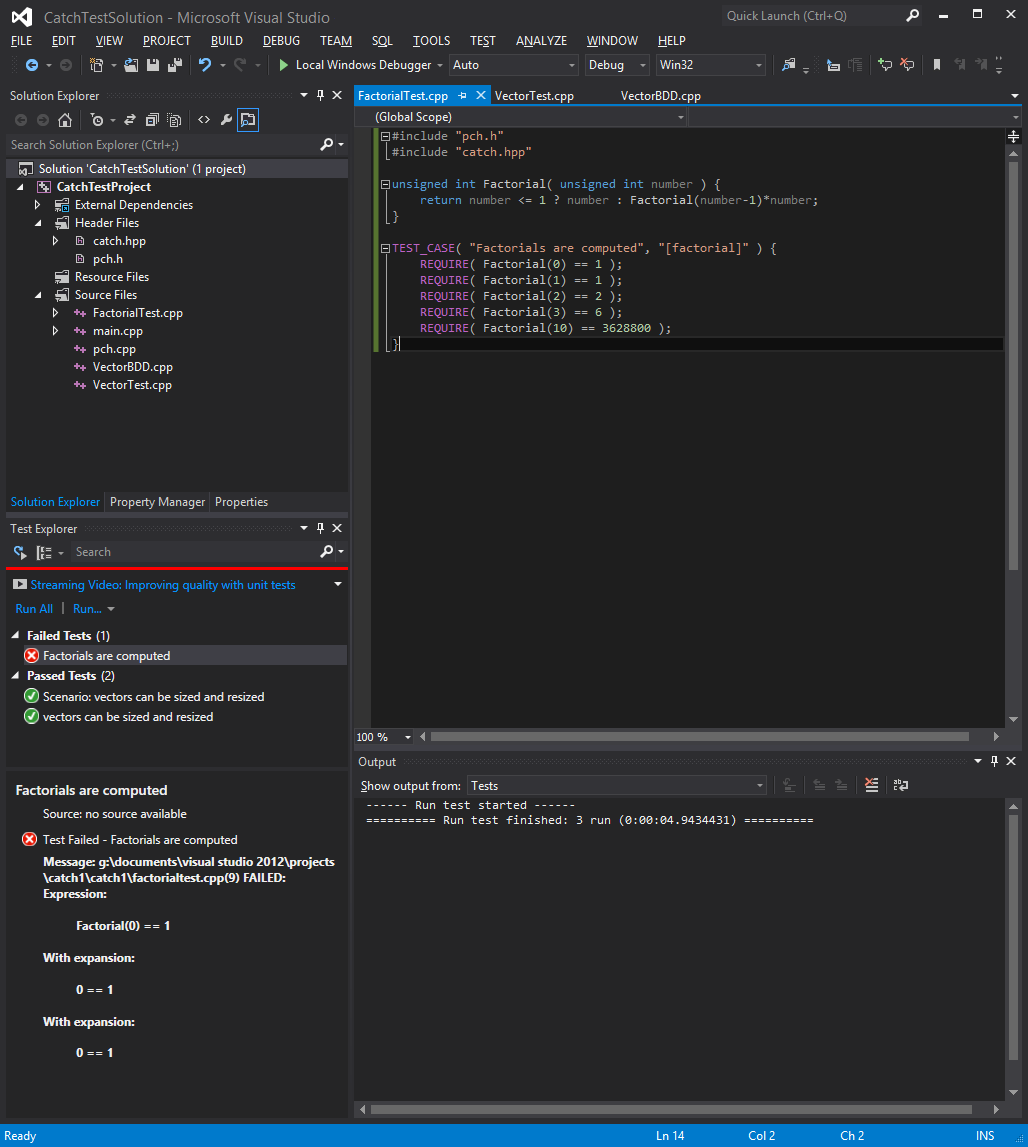
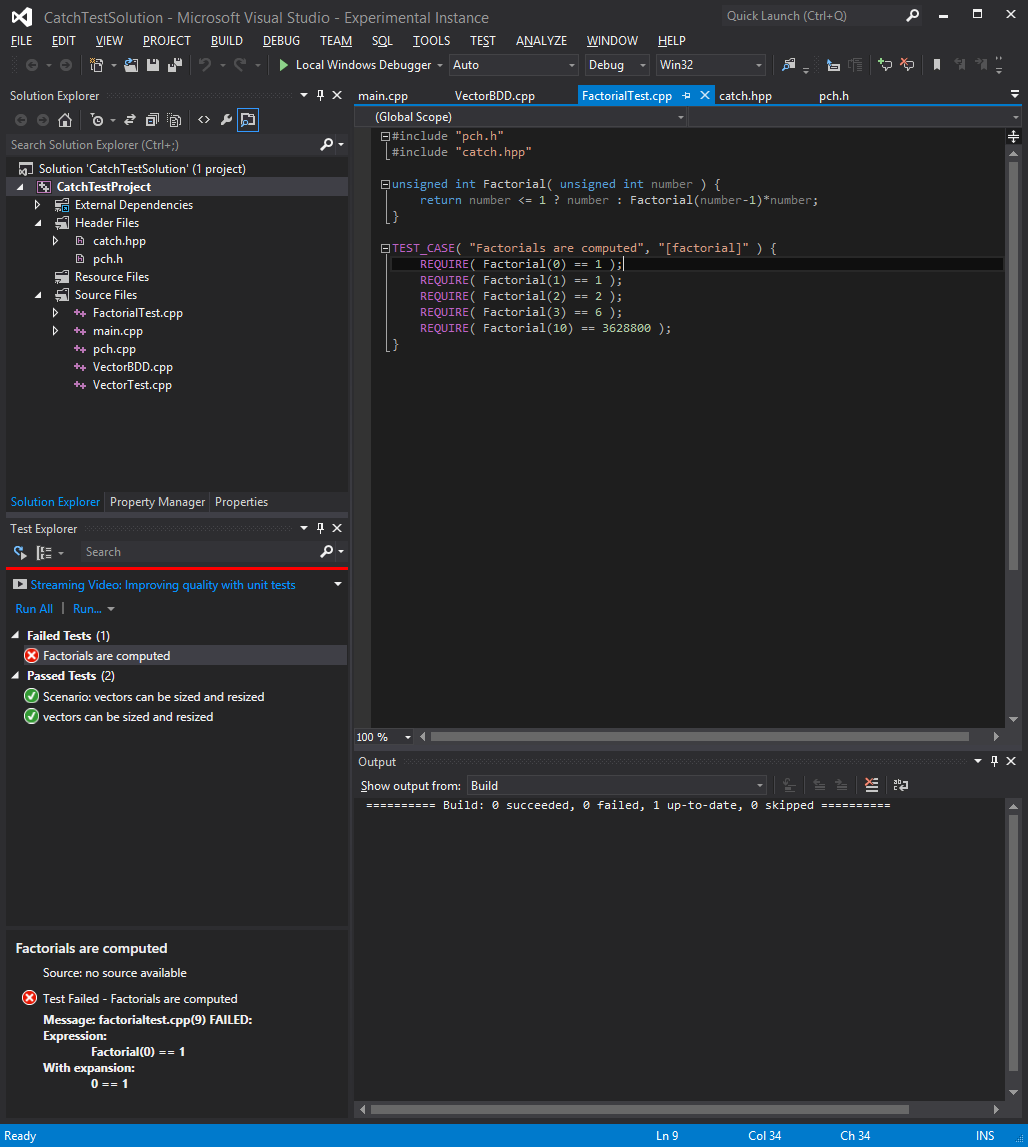
Clean up message on failed tests.

diff --git a/CatchVsTestAdapter/FailureExpression.cs b/CatchVsTestAdapter/FailureExpression.cs
@@ -21,19 +21,19 @@ namespace CatchVsTestAdapter
             var originalNode = expressionNode.Descendants("Original").FirstOrDefault();
             if (originalNode != null)
             {
-                OriginalExpression = originalNode.Value;
+                OriginalExpression = originalNode.Value.Trim();
             }
 
             var expandedNode = expressionNode.Descendants("Expanded").FirstOrDefault();
             if (expandedNode != null)
             {
-                ExpandedExpression = expandedNode.Value;
+                ExpandedExpression = expandedNode.Value.Trim();
             }
 
             var ExceptionNode = expressionNode.Descendants("Exception").FirstOrDefault();
             if (ExceptionNode != null)
             {
-                ExceptionMessage = ExceptionNode.Value;
+                ExceptionMessage = ExceptionNode.Value.Trim();
             }
         }
 
@@ -48,31 +48,26 @@ namespace CatchVsTestAdapter
         public override string ToString()
         {
             var message = new StringBuilder{};
+            string indentation = "\t";
 
             message.AppendFormat("{0} FAILED:\n", Location);
-
+            
             if (OriginalExpression != null)
             {
                 message.Append("Expression:\n");
-                message.AppendFormat("  {0}\n", OriginalExpression);
+                message.AppendFormat("{0}{1}\n", indentation, OriginalExpression);
             }
 
             if (ExpandedExpression != null && ExpandedExpression != OriginalExpression)
             {
                 message.Append("With expansion:\n");
-                message.AppendFormat("  {0}\n", ExpandedExpression);
-            }
-
-            if (ExpandedExpression != null && ExpandedExpression != OriginalExpression)
-            {
-                message.Append("With expansion:\n");
-                message.AppendFormat("  {0}\n", ExpandedExpression);
+                message.AppendFormat("{0}{1}\n", indentation, ExpandedExpression);
             }
 
             if (ExceptionMessage != null)
             {
                 message.Append("due to unexpected exception with message:\n");
-                message.AppendFormat("  {0}\n", ExceptionMessage);
+                message.AppendFormat("{0}{1}\n", indentation, ExceptionMessage);
             }
 
             return message.ToString();
@@ -93,7 +88,7 @@ namespace CatchVsTestAdapter
 
         public override string ToString()
         {
-            return File + "(" + Line + ")";
+            return System.IO.Path.GetFileName(File) + "(" + Line + ")";
         }
     }
 }
